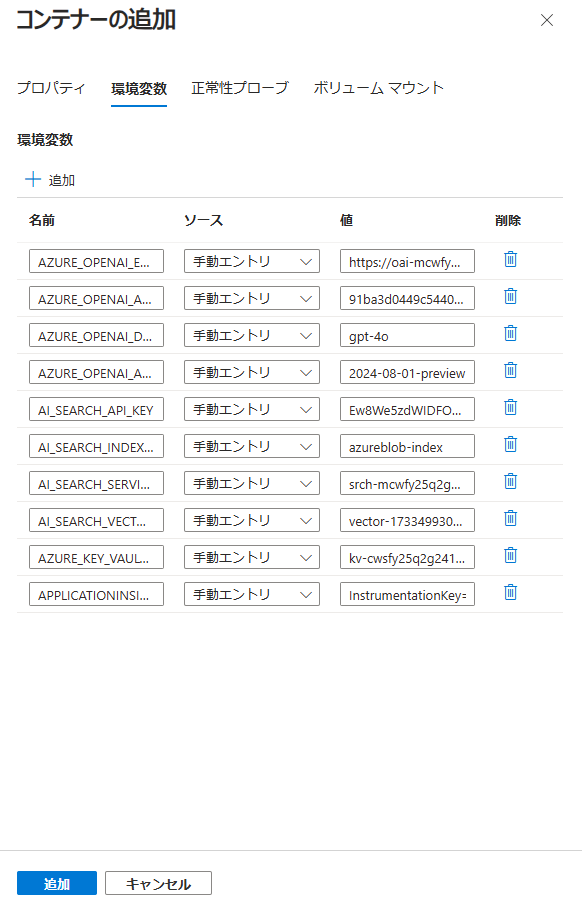
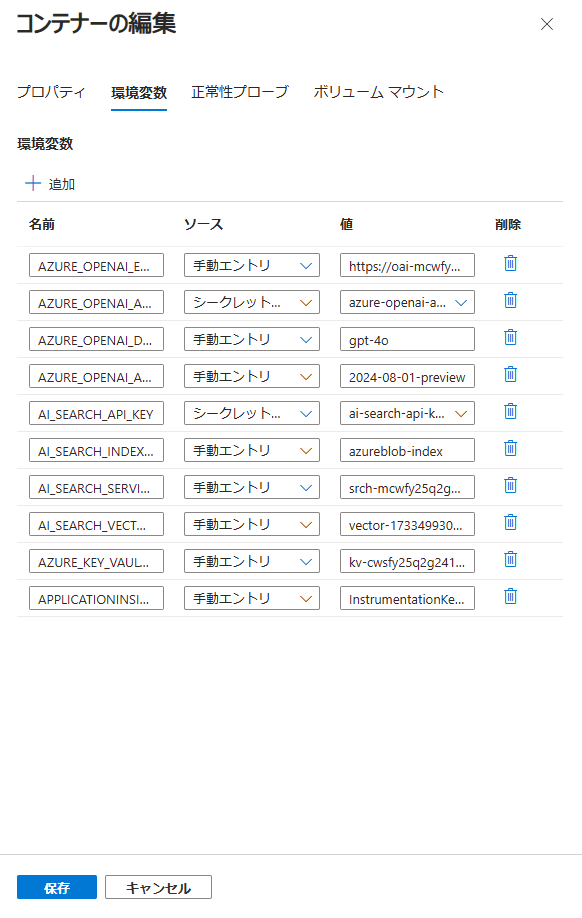
シークレットをKeyVault参照するよう修正

diff --git a/HOL-step-by-step-guide-4.md b/HOL-step-by-step-guide-4.md
@@ -541,13 +541,32 @@ Dec 2024
 
 ### Task 5: Azure Container Apps へのイメージの展開
 
+- 展開済みの Container Apps に移動、 **設定** → **シークレット** を選択肢、 **[+ 追加]** を押下
+
+    - **キー** ： `ai-search-api-key`
+    - **種類** ： `Key Vault 参照`
+    - **Key Vault シークレットURL** ： (Key Vault を参照して取得。末尾のGUIDを付ける場合はバージョン固定。削除した場合は最新を取得)
+    - **マネージドID** ： `システム割り当て`
+
+  <img src="./images/container-build-push-07a.png" />
+
+    同様に以下のシークレット参照も追加
+
+    - **キー** ： `azure-openai-api-key`
+    - **種類** ： `Key Vault 参照`
+    - **Key Vault シークレットURL** ： (Key Vault を参照して取得。末尾のGUIDを付ける場合はバージョン固定。削除した場合は最新を取得)
+    - **マネージドID** ： `システム割り当て`
+
+  <img src="./images/container-build-push-07b.png" />
+
+
 - 展開済みの Container Apps に移動、**リビジョンとレプリカ** を選択し、**[+ 新しいリビジョンを作成]** を押下
 
-<img src="./images/container-build-push-07.png" />
+  <img src="./images/container-build-push-07.png" />
 
 - [コンテナー]タブで展開済みの **simple-hello-world-container** を削除し、**[+ 追加]** 、**アプリ コンテナー** を選択
 
-<img src="./images/container-build-push-08.png" />
+  <img src="./images/container-build-push-08.png" />
 
 - **プロパティ**タブで以下の項目を入力
 
@@ -568,10 +587,20 @@ Dec 2024
 
   <img src="./images/container-build-push-09.png" />
 
-- **環境変数**タブで以下の項目を入力し、**追加** を選択
+- **環境変数**タブで以下の項目( `.env` に指定されている値)を入力し、**追加** を選択
 
-    |名前|ソース|値|
-    |---|---|---|
+  | 名前                                   | ソース         | 値                                                                                                    |
+  |----------------------------------------|----------------|-------------------------------------------------------------------------------------------------------|
+  | AZURE_OPENAI_ENDPOINT                  | 手動エントリ   | (Azure OpenAI Service の エンドポイント) |
+  | AZURE_OPENAI_API_KEY                   | シークレットの参照   | `ai-search-api-key` |
+  | AZURE_OPENAI_DEPLOYMENT                | 手動エントリ   | `gpt-4o` |
+  | AZURE_OPENAI_API_VERSION               | 手動エントリ   | `2024-08-01-preview` |
+  | AI_SEARCH_API_KEY                      | シークレットの参照   | `azure-openai-api-key` |
+  | AI_SEARCH_INDEX_NAME                   | 手動エントリ   | `azureblob-index`|
+  | AI_SEARCH_SERVICE_NAME                 | 手動エントリ   | (Azure AI Search の リソース名)|
+  | AI_SEARCH_VECTOR_INDEX_NAME            | 手動エントリ   | vector-xxxxxxxxxxxx|
+  | AZURE_KEY_VAULT_NAME                   | 手動エントリ   | kv-xxxxxxxxxxxx|
+  | APPLICATIONINSIGHTS_CONNECTION_STRING  | 手動エントリ   | "InstrumentationKey=xxxxxxxxxxx;IngestionEndpoint=https://xxxxxxx-x.in.applicationinsights.azure.com/;LiveEndpoint=https://xxxxxx.livediagnostics.monitor.azure.com/;ApplicationId=xxxxxxxxxx" |
 
   <img src="./images/container-build-push-09b.png" />
 
